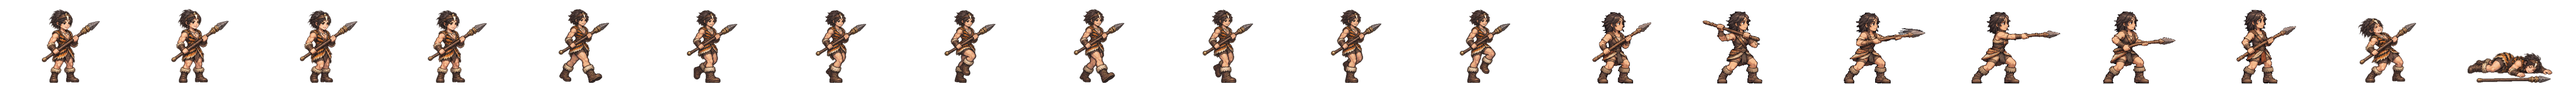
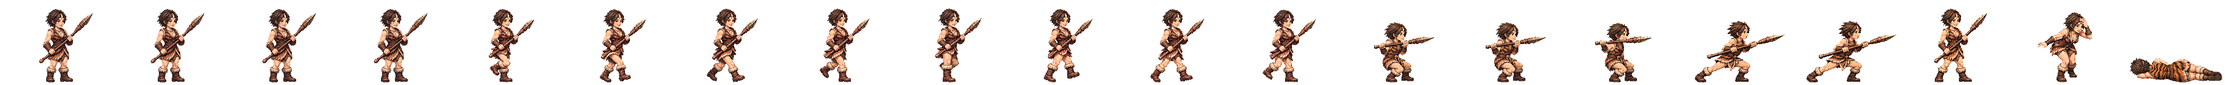
사로 범이 새 전투 띠를 게임에 (창 · 새 찌르기 · 맞음 네 칸 · 개성 동작) · 끝까지 찌른 칸은 a4 로 · 자루 곧음 6배 확인
Claude-Session: https://claude.ai/code/session_01TRiuN7s6aDfSnaHxrkctmU

Changed region(s): [[0.4688, 0.125, 1.0, 1.0], [0.2188, 0.125, 0.4375, 0.9688], [0.0, 0.125, 0.1875, 0.9688]]

diff --git a/src/realm/data/spritePx.ts b/src/realm/data/spritePx.ts
@@ -1,3 +1,3 @@
 /** public/realm/anim-px/manifest.json 의 사본 — tools/sprite-normalize.mjs 가 만든다 (손으로 고치지 말 것). 칸 [가로, 세로] · feet = 발 줄(칸 위에서 y) · bodyPx = 서 있는 몸 키 */
 import { expandManifest } from './sprite-manifest.ts'
-export const SPRITE_PX: Readonly<Record<string, { readonly cell: readonly [number, number]; readonly feet: number; readonly bodyPx: number; readonly kind: 'general' | 'soldier' | 'folk' | 'crowd'; readonly cells: number }>> = expandManifest<{ readonly cell: readonly [number, number]; readonly feet: number; readonly bodyPx: number; readonly kind: 'general' | 'soldier' | 'folk' | 'crowd'; readonly cells: number }>([{"cell":[166,128],"feet":126,"bodyPx":124,"kind":"soldier","cells":20},{"cell":[116,128],"feet":126,"bodyPx":117,"kind":"soldier","cells":20},{"cell":[127,128],"feet":126,"bodyPx":116,"kind":"soldier","cells":20},{"cell":[269,128],"feet":126,"bodyPx":126,"kind":"soldier","cells":20},{"cell":[503,128],"feet":126,"bodyPx":127,"kind":"soldier","cells":20},{"cell":[614,128],"feet":126,"bodyPx":126,"kind":"soldier","cells":20},{"cell":[200,160],"feet":156,"bodyPx":138,"kind":"general","cells":20},{"cell":[208,160],"feet":155,"bodyPx":138,"kind":"general","cells":20},{"cell":[208,160],"feet":154,"bodyPx":138,"kind":"general","cells":20},{"cell":[304,160],"feet":155,"bodyPx":135,"kind":"general","cells":20},{"cell":[184,160],"feet":156,"bodyPx":138,"kind":"general","cells":20},{"cell":[208,160],"feet":154,"bodyPx":136,"kind":"general","cells":20},{"cell":[240,160],"feet":156,"bodyPx":138,"kind":"general","cells":20},{"cell":[232,160],"feet":156,"bodyPx":138,"kind":"general","cells":20},{"cell":[208,160],"feet":156,"bodyPx":138,"kind":"general","cells":20},{"cell":[168,160],"feet":156,"bodyPx":124,"kind":"general","cells":20},{"cell":[216,160],"feet":156,"bodyPx":130,"kind":"general","cells":20},{"cell":[200,160],"feet":156,"bodyPx":116,"kind":"general","cells":20},{"cell":[192,160],"feet":156,"bodyPx":138,"kind":"general","cells":20},{"cell":[200,160],"feet":156,"bodyPx":135,"kind":"general","cells":20},{"cell":[280,160],"feet":156,"bodyPx":138,"kind":"general","cells":20},{"cell":[232,160],"feet":155,"bodyPx":138,"kind":"general","cells":20},{"cell":[232,160],"feet":156,"bodyPx":134,"kind":"general","cells":20},{"cell":[144,160],"feet":156,"bodyPx":70,"kind":"general","cells":20},{"cell":[208,160],"feet":156,"bodyPx":70,"kind":"general","cells":20},{"cell":[192,160],"feet":156,"bodyPx":70,"kind":"general","cells":20},{"cell":[240,160],"feet":155,"bodyPx":138,"kind":"general","cells":20},{"cell":[160,160],"feet":156,"bodyPx":135,"kind":"general","cells":20},{"cell":[192,160],"feet":156,"bodyPx":128,"kind":"general","cells":20},{"cell":[224,160],"feet":155,"bodyPx":138,"kind":"general","cells":20},{"cell":[232,160],"feet":156,"bodyPx":139,"kind":"general","cells":20},{"cell":[216,160],"feet":156,"bodyPx":138,"kind":"general","cells":20},{"cell":[208,160],"feet":156,"bodyPx":134,"kind":"general","cells":20},{"cell":[176,160],"feet":156,"bodyPx":130,"kind":"general","cells":20},{"cell":[248,160],"feet":156,"bodyPx":138,"kind":"general","cells":20},{"cell":[248,160],"feet":155,"bodyPx":138,"kind":"general","cells":20},{"cell":[192,160],"feet":155,"bodyPx":138,"kind":"general","cells":20},{"cell":[192,160],"feet":156,"bodyPx":124,"kind":"general","cells":20},{"cell":[208,160],"feet":154,"bodyPx":131,"kind":"general","cells":20},{"cell":[256,160],"feet":156,"bodyPx":138,"kind":"general","cells":20},{"cell":[232,160],"feet":156,"bodyPx":73,"kind":"general","cells":20},{"cell":[256,160],"feet":155,"bodyPx":138,"kind":"general","cells":20},{"cell":[264,160],"feet":156,"bodyPx":138,"kind":"general","cells":20},{"cell":[224,160],"feet":156,"bodyPx":138,"kind":"general","cells":20},{"cell":[224,160],"feet":156,"bodyPx":128,"kind":"general","cells":20},{"cell":[176,160],"feet":156,"bodyPx":129,"kind":"general","cells":20},{"cell":[208,160],"feet":154,"bodyPx":139,"kind":"general","cells":20},{"cell":[208,160],"feet":156,"bodyPx":132,"kind":"general","cells":20},{"cell":[208,160],"feet":154,"bodyPx":137,"kind":"general","cells":20},{"cell":[184,160],"feet":156,"bodyPx":122,"kind":"general","cells":20},{"cell":[176,160],"feet":156,"bodyPx":138,"kind":"general","cells":20},{"cell":[280,160],"feet":155,"bodyPx":133,"kind":"general","cells":20},{"cell":[176,160],"feet":156,"bodyPx":70,"kind":"general","cells":20},{"cell":[186,128],"feet":126,"bodyPx":127,"kind":"soldier","cells":20},{"cell":[298,128],"feet":126,"bodyPx":126,"kind":"soldier","cells":20},{"cell":[82,128],"feet":126,"bodyPx":114,"kind":"folk","cells":8},{"cell":[134,128],"feet":126,"bodyPx":119,"kind":"soldier","cells":20},{"cell":[380,128],"feet":126,"bodyPx":124,"kind":"soldier","cells":20},{"cell":[114,128],"feet":126,"bodyPx":115,"kind":"soldier","cells":20},{"cell":[122,128],"feet":126,"bodyPx":114,"kind":"soldier","cells":20},{"cell":[254,128],"feet":126,"bodyPx":128,"kind":"soldier","cells":20},{"cell":[438,128],"feet":126,"bodyPx":126,"kind":"soldier","cells":20},{"cell":[88,128],"feet":126,"bodyPx":113,"kind":"folk","cells":8},{"cell":[100,128],"feet":126,"bodyPx":115,"kind":"folk","cells":8},{"cell":[108,128],"feet":126,"bodyPx":115,"kind":"folk","cells":8},{"cell":[63,128],"feet":126,"bodyPx":113,"kind":"folk","cells":8},{"cell":[69,96],"feet":96,"bodyPx":96,"kind":"crowd","cells":1},{"cell":[54,96],"feet":96,"bodyPx":96,"kind":"crowd","cells":1},{"cell":[47,96],"feet":96,"bodyPx":96,"kind":"crowd","cells":1},{"cell":[49,96],"feet":96,"bodyPx":96,"kind":"crowd","cells":1},{"cell":[57,96],"feet":96,"bodyPx":96,"kind":"crowd","cells":1},{"cell":[55,96],"feet":96,"bodyPx":96,"kind":"crowd","cells":1},{"cell":[45,96],"feet":96,"bodyPx":96,"kind":"crowd","cells":1},{"cell":[53,96],"feet":96,"bodyPx":96,"kind":"crowd","cells":1},{"cell":[64,96],"feet":96,"bodyPx":96,"kind":"crowd","cells":1},{"cell":[184,160],"feet":156,"bodyPx":124,"kind":"general","cells":20},{"cell":[184,160],"feet":156,"bodyPx":134,"kind":"general","cells":20},{"cell":[224,160],"feet":156,"bodyPx":133,"kind":"general","cells":20},{"cell":[192,160],"feet":156,"bodyPx":135,"kind":"general","cells":20},{"cell":[184,160],"feet":156,"bodyPx":137,"kind":"general","cells":20},{"cell":[216,160],"feet":156,"bodyPx":134,"kind":"general","cells":20},{"cell":[216,160],"feet":156,"bodyPx":132,"kind":"general","cells":20},{"cell":[288,160],"feet":156,"bodyPx":138,"kind":"general","cells":20},{"cell":[192,160],"feet":156,"bodyPx":118,"kind":"general","cells":20},{"cell":[208,160],"feet":154,"bodyPx":134,"kind":"general","cells":20},{"cell":[208,160],"feet":154,"bodyPx":128,"kind":"general","cells":20},{"cell":[240,160],"feet":156,"bodyPx":128,"kind":"general","cells":20},{"cell":[184,160],"feet":156,"bodyPx":132,"kind":"general","cells":20},{"cell":[208,160],"feet":156,"bodyPx":123,"kind":"general","cells":20},{"cell":[176,160],"feet":156,"bodyPx":116,"kind":"general","cells":20},{"cell":[272,160],"feet":156,"bodyPx":138,"kind":"general","cells":20},{"cell":[176,160],"feet":156,"bodyPx":122,"kind":"general","cells":20},{"cell":[232,160],"feet":156,"bodyPx":127,"kind":"general","cells":20},{"cell":[168,160],"feet":156,"bodyPx":138,"kind":"general","cells":20},{"cell":[176,160],"feet":156,"bodyPx":137,"kind":"general","cells":20},{"cell":[184,160],"feet":156,"bodyPx":133,"kind":"general","cells":20}],[["axe",0],["bandit-chief",1],["bandit-club",2],["boat",3],["bow",4],["crossbow",5],["gen-adogan",6],["gen-alpyeong",7],["gen-ara",8],["gen-areum",8],["gen-aryeong",9],["gen-bakdal",6],["gen-baram",8],["gen-bdanbi",10],["gen-beom",11],["gen-beombal",8],["gen-beomi",12],["gen-bira",13],["gen-biryu",14],["gen-budeul",8],["gen-byeol",8],["gen-daemusin",15],["gen-daeso",16],["gen-dallae2",10],["gen-dalli",10],["gen-damul",17],["gen-danbi",14],["gen-dangung",18],["gen-darae",19],["gen-dokmudeom",7],["gen-duman",20],["gen-eomni",21],["gen-eureum",22],["gen-g-bow",23],["gen-g-spear",24],["gen-g-sword",25],["gen-gaennae",6],["gen-gamsil",26],["gen-gaon",27],["gen-geota",14],["gen-geumbawi",10],["gen-geumha",28],["gen-goeun",14],["gen-gom",29],["gen-gomok",14],["gen-gureum",26],["gen-guryema",18],["gen-gwaeyu",13],["gen-haebi",8],["gen-haedal",6],["gen-haesol",30],["gen-halla",7],["gen-heo",8],["gen-hneoul",10],["gen-hogong",31],["gen-hojin",14],["gen-horselord",32],["gen-hwalmi",33],["gen-hyeokgeose",18],["gen-hyeopbo",6],["gen-irang",8],["gen-jibaekho",34],["gen-jinha",35],["gen-jita",36],["gen-jumong",37],["gen-keundol",7],["gen-maehwa",38],["gen-maenun",18],["gen-malgalgi",39],["gen-mari",12],["gen-maro",34],["gen-maryeo",14],["gen-mdallae",30],["gen-mir",6],["gen-mount",40],["gen-mulbeom",41],["gen-mulsae",31],["gen-musoe",31],["gen-noeul",8],["gen-nuri",42],["gen-ocheongan",43],["gen-odi",8],["gen-odogan",6],["gen-ogan",18],["gen-oi",44],["gen-olddaeso",22],["gen-onjo",45],["gen-pidogan",14],["gen-sagong",46],["gen-sdallae",6],["gen-sincheongan",31],["gen-singwigan",31],["gen-sinneoul",8],["gen-sobeol",21],["gen-soebi",6],["gen-soebo",47],["gen-soenun",34],["gen-sogeumbi",48],["gen-songbi",43],["gen-songyang",49],["gen-sori",50],["gen-soseono",51],["gen-suro",18],["gen-tahae",6],["gen-tneoul",8],["gen-w-bow",23],["gen-w-spear",52],["gen-waechief",14],["gen-wan",31],["gen-yeodogan",14],["gen-yucheongan",14],["gen-yusugan",34],["horse",53],["marine",54],["migrant",55],["militia",56],["pike",57],["pirate-captain",58],["pirate-sword",59],["shield",60],["spear",61],["villager-builder",62],["villager-farmer",63],["villager-porter",64],["villager-woman",65],["crowd-b1",66],["crowd-b2",67],["crowd-b3",68],["crowd-b4",69],["crowd-b5",70],["crowd-b6",71],["crowd-f1",66],["crowd-f2",71],["crowd-f3",72],["crowd-f4",73],["crowd-f5",66],["crowd-f6",74],["gen-dalbit",14],["gen-base-g-07-drunk-warrior",18],["gen-base-g-40-anya-adan",14],["gen-base-w-13-young-archer",8],["gen-base-g-03-sea-trader",12],["gen-base-w-10-pirate-captain",46],["gen-base-w-64-miri-dallae",46],["gen-base-g-41-goja-bau",12],["gen-base-g-42-dokro-garam",42],["gen-base-g-09-farmer-conscript",31],["gen-base-w-02-goguryeo-lady",31],["gen-base-w-17-mahan-pearl-diver",8],["gen-base-g-17-saro-isageum",47],["gen-base-g-18-daegaya-king",75],["gen-base-g-35-dabeol-dalgu",14],["gen-base-g-19-sabeol-veteran",31],["gen-base-w-23-usisan-whale-queen",8],["gen-base-g-36-gammun-gamdol",43],["gen-base-g-20-samul-sea-lord",39],["gen-base-g-37-eumjeup-jeup",10],["gen-base-g-38-chopal-palmae",18],["gen-base-w-75-daegaya-soemoe",18],["gen-base-g-45-dabeol-deulgae",10],["gen-base-g-04-jinhan-giant",14],["gen-base-g-08-veteran",14],["gen-base-w-18-jinhan-salt-widow",8],["gen-base-w-12-court-dancer",76],["gen-base-w-83-gyeonji-beodeul",77],["gen-base-w-05-baekje-queen",78],["gen-base-w-21-baekje-court-dancer",10],["gen-base-g-01-master-smith",79],["gen-base-g-93-jomun-solgae",33],["gen-base-g-57-bihwa-neup",12],["gen-base-w-72-eumjeup-beol",8],["gen-base-w-102-garak-dana",46],["gen-base-g-68-baekje-onnuri",14],["gen-base-w-27-mokji-jinha",6],["gen-base-g-22-ungcheon-gomnae",6],["gen-base-g-23-sangdang-soedal",14],["gen-base-g-24-wansan-onsan",6],["gen-base-g-25-balla-keunmoe",31],["gen-base-g-61-heomcheuk-bawi",31],["gen-base-g-88-wander-soeul",43],["gen-base-w-14-feast-spy",6],["gen-base-g-12-silla-youth",80],["gen-base-w-08-mahan-warrior",8],["gen-base-g-62-beonye-hanul",12],["gen-base-g-63-heomcheuk-beogeum",14],["gen-base-g-84-wander-seoneul",14],["gen-base-w-50-siljik-mulga",31],["gen-base-g-46-uga-nureongso",31],["gen-base-w-80-usan-gangchi",46],["gen-base-g-47-guga-sanyanggae",31],["gen-base-w-76-gampyeong-baetsagong",8],["gen-base-g-05-mahan-chieftain",81],["gen-base-g-58-usan-uhae",14],["gen-base-g-27-maek-maekdol",14],["gen-base-w-53-hwanna-gabi",46],["gen-base-w-29-golpo-janmul",34],["gen-base-g-53-baekje-haeru",6],["gen-base-w-71-yeonna-neoul",8],["gen-base-w-79-yangmaek-solmae",8],["gen-base-w-34-chopal-deulme",8],["gen-base-g-44-maga-malgup",82],["gen-base-w-31-dabeol-dalbit",46],["gen-base-g-51-biryuna-mulgyeol",43],["gen-base-g-48-gwanna-musoe",14],["gen-base-g-32-uga-sodu",13],["gen-base-g-49-goguryeo-sona",83],["gen-base-g-30-gwanna-soemoe",43],["gen-base-g-52-tamna-oreum",10],["gen-base-g-29-yeonna-myeongsol",37],["gen-base-w-56-dongokjeo-sogeum",84],["gen-base-g-54-mokji-mahan",13],["gen-base-g-33-jeoga-metdol",18],["gen-base-w-36-baekje-maena",8],["gen-base-w-38-sangdang-bulmae",6],["gen-base-w-39-gosaburi-galmae",8],["gen-base-w-40-mujin-munui",47],["gen-base-w-41-hwanna-beodeul",85],["gen-base-w-43-uga-nuri",39],["gen-base-w-45-tamna-oreumbi",10],["gen-base-g-60-golbeol-golgae",10],["gen-base-g-61-apdok-ap",31],["gen-base-g-62-gammun-gamnamu",6],["gen-base-g-63-chopal-yeoul",34],["gen-base-g-64-michuhol-sogeumkkun",12],["gen-base-g-65-sangdang-soemangchi",43],["gen-base-g-66-geonma-malbalgup",86],["gen-base-g-67-gosaburi-buri",87],["gen-base-g-68-mujin-bitgoeul",10],["gen-base-g-69-goryong-yong",43],["gen-base-g-70-siljik-pado",12],["gen-base-w-81-byeokjin-byeolbit",8],["gen-base-w-46-geonma-maru",8],["gen-base-w-48-mujin-mudeung",8],["gen-base-g-26-gampyeong-gaetbeol",13],["gen-base-g-60-eupcha-hangyeol",88],["gen-base-g-15-shaman-man",31],["gen-base-g-85-wander-ure",34],["gen-base-g-43-hwanna-amnok",14],["gen-base-g-50-bullae-gwaha",78],["gen-base-g-55-saro-bakdal",14],["gen-base-g-56-haseulla-gwahama",6],["gen-base-w-06-buyeo-huntress",48],["gen-base-w-22-dongye-tiger-huntress",8],["gen-base-w-25-bihwa-priestess",31],["gen-base-w-24-apdok-queen",10],["gen-base-w-61-iseo-sinae",14],["gen-base-w-26-iseo-tomboy-general",8],["gen-base-g-59-yangmaek-maekson",89],["gen-aw1-haebi",43],["gen-aw1-soseono",90],["gen-aw1-gamsil",10],["gen-aw1-mir",50],["gen-aw1-dangung",6],["gen-aw1-ara",43],["gen-aw1-jumong",91],["gen-aw1-onjo",92],["gen-aw1-base-w-83-gyeonji-beodeul",18],["gen-aw1-heo",42],["gen-aw1-base-g-38-chopal-palmae",6],["gen-aw1-base-w-25-bihwa-priestess",76],["gen-aw1-sori",93],["gen-aw1-gomok",6],["gen-aw1-irang",18],["gen-aw1-budeul",93],["gen-aw1-gom",12],["gen-aw1-sdallae",6],["gen-aw1-base-w-13-young-archer",6],["gen-aw1-base-w-36-baekje-maena",94],["gen-aw1-base-g-09-farmer-conscript",42],["gen-aw1-base-w-02-goguryeo-lady",95],["gen-aw1-haedal",10],["gen-aw1-hogong",6],["gen-aw1-maehwa",50],["gen-aw1-base-w-06-buyeo-huntress",13],["gen-aw1-base-w-08-mahan-warrior",43],["gen-aw1-base-w-29-golpo-janmul",43],["gen-aw1-base-w-31-dabeol-dalbit",18],["gen-aw1-base-w-38-sangdang-bulmae",93],["gen-aw1-bira",31],["gen-aw1-base-w-53-hwanna-gabi",93],["gen-aw1-base-w-56-dongokjeo-sogeum",50],["gen-aw1-base-w-72-eumjeup-beol",18],["gen-aw1-bdanbi",93],["gen-aw1-beom",10],["gen-aw1-beombal",10],["gen-aw1-byeol",18],["gen-aw1-dalli",50],["gen-aw1-malgalgi",34],["gen-aw1-sincheongan",31]])
+export const SPRITE_PX: Readonly<Record<string, { readonly cell: readonly [number, number]; readonly feet: number; readonly bodyPx: number; readonly kind: 'general' | 'soldier' | 'folk' | 'crowd'; readonly cells: number }>> = expandManifest<{ readonly cell: readonly [number, number]; readonly feet: number; readonly bodyPx: number; readonly kind: 'general' | 'soldier' | 'folk' | 'crowd'; readonly cells: number }>([{"cell":[166,128],"feet":126,"bodyPx":124,"kind":"soldier","cells":20},{"cell":[116,128],"feet":126,"bodyPx":117,"kind":"soldier","cells":20},{"cell":[127,128],"feet":126,"bodyPx":116,"kind":"soldier","cells":20},{"cell":[269,128],"feet":126,"bodyPx":126,"kind":"soldier","cells":20},{"cell":[503,128],"feet":126,"bodyPx":127,"kind":"soldier","cells":20},{"cell":[614,128],"feet":126,"bodyPx":126,"kind":"soldier","cells":20},{"cell":[200,160],"feet":156,"bodyPx":138,"kind":"general","cells":20},{"cell":[208,160],"feet":155,"bodyPx":138,"kind":"general","cells":20},{"cell":[208,160],"feet":154,"bodyPx":138,"kind":"general","cells":20},{"cell":[304,160],"feet":155,"bodyPx":135,"kind":"general","cells":20},{"cell":[184,160],"feet":156,"bodyPx":138,"kind":"general","cells":20},{"cell":[208,160],"feet":154,"bodyPx":136,"kind":"general","cells":20},{"cell":[232,160],"feet":156,"bodyPx":138,"kind":"general","cells":20},{"cell":[208,160],"feet":156,"bodyPx":138,"kind":"general","cells":20},{"cell":[168,160],"feet":156,"bodyPx":124,"kind":"general","cells":20},{"cell":[216,160],"feet":156,"bodyPx":130,"kind":"general","cells":20},{"cell":[200,160],"feet":156,"bodyPx":116,"kind":"general","cells":20},{"cell":[192,160],"feet":156,"bodyPx":138,"kind":"general","cells":20},{"cell":[200,160],"feet":156,"bodyPx":135,"kind":"general","cells":20},{"cell":[280,160],"feet":156,"bodyPx":138,"kind":"general","cells":20},{"cell":[232,160],"feet":155,"bodyPx":138,"kind":"general","cells":20},{"cell":[232,160],"feet":156,"bodyPx":134,"kind":"general","cells":20},{"cell":[144,160],"feet":156,"bodyPx":70,"kind":"general","cells":20},{"cell":[208,160],"feet":156,"bodyPx":70,"kind":"general","cells":20},{"cell":[192,160],"feet":156,"bodyPx":70,"kind":"general","cells":20},{"cell":[240,160],"feet":155,"bodyPx":138,"kind":"general","cells":20},{"cell":[160,160],"feet":156,"bodyPx":135,"kind":"general","cells":20},{"cell":[192,160],"feet":156,"bodyPx":128,"kind":"general","cells":20},{"cell":[224,160],"feet":155,"bodyPx":138,"kind":"general","cells":20},{"cell":[232,160],"feet":156,"bodyPx":139,"kind":"general","cells":20},{"cell":[216,160],"feet":156,"bodyPx":138,"kind":"general","cells":20},{"cell":[208,160],"feet":156,"bodyPx":134,"kind":"general","cells":20},{"cell":[176,160],"feet":156,"bodyPx":130,"kind":"general","cells":20},{"cell":[248,160],"feet":156,"bodyPx":138,"kind":"general","cells":20},{"cell":[248,160],"feet":155,"bodyPx":138,"kind":"general","cells":20},{"cell":[192,160],"feet":155,"bodyPx":138,"kind":"general","cells":20},{"cell":[192,160],"feet":156,"bodyPx":124,"kind":"general","cells":20},{"cell":[208,160],"feet":154,"bodyPx":131,"kind":"general","cells":20},{"cell":[256,160],"feet":156,"bodyPx":138,"kind":"general","cells":20},{"cell":[240,160],"feet":156,"bodyPx":138,"kind":"general","cells":20},{"cell":[232,160],"feet":156,"bodyPx":73,"kind":"general","cells":20},{"cell":[256,160],"feet":155,"bodyPx":138,"kind":"general","cells":20},{"cell":[264,160],"feet":156,"bodyPx":138,"kind":"general","cells":20},{"cell":[224,160],"feet":156,"bodyPx":138,"kind":"general","cells":20},{"cell":[224,160],"feet":156,"bodyPx":128,"kind":"general","cells":20},{"cell":[176,160],"feet":156,"bodyPx":129,"kind":"general","cells":20},{"cell":[208,160],"feet":154,"bodyPx":139,"kind":"general","cells":20},{"cell":[208,160],"feet":156,"bodyPx":132,"kind":"general","cells":20},{"cell":[208,160],"feet":154,"bodyPx":137,"kind":"general","cells":20},{"cell":[184,160],"feet":156,"bodyPx":122,"kind":"general","cells":20},{"cell":[176,160],"feet":156,"bodyPx":138,"kind":"general","cells":20},{"cell":[280,160],"feet":155,"bodyPx":133,"kind":"general","cells":20},{"cell":[176,160],"feet":156,"bodyPx":70,"kind":"general","cells":20},{"cell":[186,128],"feet":126,"bodyPx":127,"kind":"soldier","cells":20},{"cell":[298,128],"feet":126,"bodyPx":126,"kind":"soldier","cells":20},{"cell":[82,128],"feet":126,"bodyPx":114,"kind":"folk","cells":8},{"cell":[134,128],"feet":126,"bodyPx":119,"kind":"soldier","cells":20},{"cell":[380,128],"feet":126,"bodyPx":124,"kind":"soldier","cells":20},{"cell":[114,128],"feet":126,"bodyPx":115,"kind":"soldier","cells":20},{"cell":[122,128],"feet":126,"bodyPx":114,"kind":"soldier","cells":20},{"cell":[254,128],"feet":126,"bodyPx":128,"kind":"soldier","cells":20},{"cell":[438,128],"feet":126,"bodyPx":126,"kind":"soldier","cells":20},{"cell":[88,128],"feet":126,"bodyPx":113,"kind":"folk","cells":8},{"cell":[100,128],"feet":126,"bodyPx":115,"kind":"folk","cells":8},{"cell":[108,128],"feet":126,"bodyPx":115,"kind":"folk","cells":8},{"cell":[63,128],"feet":126,"bodyPx":113,"kind":"folk","cells":8},{"cell":[69,96],"feet":96,"bodyPx":96,"kind":"crowd","cells":1},{"cell":[54,96],"feet":96,"bodyPx":96,"kind":"crowd","cells":1},{"cell":[47,96],"feet":96,"bodyPx":96,"kind":"crowd","cells":1},{"cell":[49,96],"feet":96,"bodyPx":96,"kind":"crowd","cells":1},{"cell":[57,96],"feet":96,"bodyPx":96,"kind":"crowd","cells":1},{"cell":[55,96],"feet":96,"bodyPx":96,"kind":"crowd","cells":1},{"cell":[45,96],"feet":96,"bodyPx":96,"kind":"crowd","cells":1},{"cell":[53,96],"feet":96,"bodyPx":96,"kind":"crowd","cells":1},{"cell":[64,96],"feet":96,"bodyPx":96,"kind":"crowd","cells":1},{"cell":[184,160],"feet":156,"bodyPx":124,"kind":"general","cells":20},{"cell":[184,160],"feet":156,"bodyPx":134,"kind":"general","cells":20},{"cell":[224,160],"feet":156,"bodyPx":133,"kind":"general","cells":20},{"cell":[192,160],"feet":156,"bodyPx":135,"kind":"general","cells":20},{"cell":[184,160],"feet":156,"bodyPx":137,"kind":"general","cells":20},{"cell":[216,160],"feet":156,"bodyPx":134,"kind":"general","cells":20},{"cell":[216,160],"feet":156,"bodyPx":132,"kind":"general","cells":20},{"cell":[288,160],"feet":156,"bodyPx":138,"kind":"general","cells":20},{"cell":[192,160],"feet":156,"bodyPx":118,"kind":"general","cells":20},{"cell":[208,160],"feet":154,"bodyPx":134,"kind":"general","cells":20},{"cell":[208,160],"feet":154,"bodyPx":128,"kind":"general","cells":20},{"cell":[240,160],"feet":156,"bodyPx":128,"kind":"general","cells":20},{"cell":[184,160],"feet":156,"bodyPx":132,"kind":"general","cells":20},{"cell":[208,160],"feet":156,"bodyPx":123,"kind":"general","cells":20},{"cell":[176,160],"feet":156,"bodyPx":116,"kind":"general","cells":20},{"cell":[272,160],"feet":156,"bodyPx":138,"kind":"general","cells":20},{"cell":[176,160],"feet":156,"bodyPx":122,"kind":"general","cells":20},{"cell":[232,160],"feet":156,"bodyPx":127,"kind":"general","cells":20},{"cell":[168,160],"feet":156,"bodyPx":138,"kind":"general","cells":20},{"cell":[176,160],"feet":156,"bodyPx":137,"kind":"general","cells":20},{"cell":[184,160],"feet":156,"bodyPx":133,"kind":"general","cells":20}],[["axe",0],["bandit-chief",1],["bandit-club",2],["boat",3],["bow",4],["crossbow",5],["gen-adogan",6],["gen-alpyeong",7],["gen-ara",8],["gen-areum",8],["gen-aryeong",9],["gen-bakdal",6],["gen-baram",8],["gen-bdanbi",10],["gen-beom",11],["gen-beombal",8],["gen-beomi",8],["gen-bira",12],["gen-biryu",13],["gen-budeul",8],["gen-byeol",8],["gen-daemusin",14],["gen-daeso",15],["gen-dallae2",10],["gen-dalli",10],["gen-damul",16],["gen-danbi",13],["gen-dangung",17],["gen-darae",18],["gen-dokmudeom",7],["gen-duman",19],["gen-eomni",20],["gen-eureum",21],["gen-g-bow",22],["gen-g-spear",23],["gen-g-sword",24],["gen-gaennae",6],["gen-gamsil",25],["gen-gaon",26],["gen-geota",13],["gen-geumbawi",10],["gen-geumha",27],["gen-goeun",13],["gen-gom",28],["gen-gomok",13],["gen-gureum",25],["gen-guryema",17],["gen-gwaeyu",12],["gen-haebi",8],["gen-haedal",6],["gen-haesol",29],["gen-halla",7],["gen-heo",8],["gen-hneoul",10],["gen-hogong",30],["gen-hojin",13],["gen-horselord",31],["gen-hwalmi",32],["gen-hyeokgeose",17],["gen-hyeopbo",6],["gen-irang",8],["gen-jibaekho",33],["gen-jinha",34],["gen-jita",35],["gen-jumong",36],["gen-keundol",7],["gen-maehwa",37],["gen-maenun",17],["gen-malgalgi",38],["gen-mari",39],["gen-maro",33],["gen-maryeo",13],["gen-mdallae",29],["gen-mir",6],["gen-mount",40],["gen-mulbeom",41],["gen-mulsae",30],["gen-musoe",30],["gen-noeul",8],["gen-nuri",42],["gen-ocheongan",43],["gen-odi",8],["gen-odogan",6],["gen-ogan",17],["gen-oi",44],["gen-olddaeso",21],["gen-onjo",45],["gen-pidogan",13],["gen-sagong",46],["gen-sdallae",6],["gen-sincheongan",30],["gen-singwigan",30],["gen-sinneoul",8],["gen-sobeol",20],["gen-soebi",6],["gen-soebo",47],["gen-soenun",33],["gen-sogeumbi",48],["gen-songbi",43],["gen-songyang",49],["gen-sori",50],["gen-soseono",51],["gen-suro",17],["gen-tahae",6],["gen-tneoul",8],["gen-w-bow",22],["gen-w-spear",52],["gen-waechief",13],["gen-wan",30],["gen-yeodogan",13],["gen-yucheongan",13],["gen-yusugan",33],["horse",53],["marine",54],["migrant",55],["militia",56],["pike",57],["pirate-captain",58],["pirate-sword",59],["shield",60],["spear",61],["villager-builder",62],["villager-farmer",63],["villager-porter",64],["villager-woman",65],["crowd-b1",66],["crowd-b2",67],["crowd-b3",68],["crowd-b4",69],["crowd-b5",70],["crowd-b6",71],["crowd-f1",66],["crowd-f2",71],["crowd-f3",72],["crowd-f4",73],["crowd-f5",66],["crowd-f6",74],["gen-dalbit",13],["gen-base-g-07-drunk-warrior",17],["gen-base-g-40-anya-adan",13],["gen-base-w-13-young-archer",8],["gen-base-g-03-sea-trader",39],["gen-base-w-10-pirate-captain",46],["gen-base-w-64-miri-dallae",46],["gen-base-g-41-goja-bau",39],["gen-base-g-42-dokro-garam",42],["gen-base-g-09-farmer-conscript",30],["gen-base-w-02-goguryeo-lady",30],["gen-base-w-17-mahan-pearl-diver",8],["gen-base-g-17-saro-isageum",47],["gen-base-g-18-daegaya-king",75],["gen-base-g-35-dabeol-dalgu",13],["gen-base-g-19-sabeol-veteran",30],["gen-base-w-23-usisan-whale-queen",8],["gen-base-g-36-gammun-gamdol",43],["gen-base-g-20-samul-sea-lord",38],["gen-base-g-37-eumjeup-jeup",10],["gen-base-g-38-chopal-palmae",17],["gen-base-w-75-daegaya-soemoe",17],["gen-base-g-45-dabeol-deulgae",10],["gen-base-g-04-jinhan-giant",13],["gen-base-g-08-veteran",13],["gen-base-w-18-jinhan-salt-widow",8],["gen-base-w-12-court-dancer",76],["gen-base-w-83-gyeonji-beodeul",77],["gen-base-w-05-baekje-queen",78],["gen-base-w-21-baekje-court-dancer",10],["gen-base-g-01-master-smith",79],["gen-base-g-93-jomun-solgae",32],["gen-base-g-57-bihwa-neup",39],["gen-base-w-72-eumjeup-beol",8],["gen-base-w-102-garak-dana",46],["gen-base-g-68-baekje-onnuri",13],["gen-base-w-27-mokji-jinha",6],["gen-base-g-22-ungcheon-gomnae",6],["gen-base-g-23-sangdang-soedal",13],["gen-base-g-24-wansan-onsan",6],["gen-base-g-25-balla-keunmoe",30],["gen-base-g-61-heomcheuk-bawi",30],["gen-base-g-88-wander-soeul",43],["gen-base-w-14-feast-spy",6],["gen-base-g-12-silla-youth",80],["gen-base-w-08-mahan-warrior",8],["gen-base-g-62-beonye-hanul",39],["gen-base-g-63-heomcheuk-beogeum",13],["gen-base-g-84-wander-seoneul",13],["gen-base-w-50-siljik-mulga",30],["gen-base-g-46-uga-nureongso",30],["gen-base-w-80-usan-gangchi",46],["gen-base-g-47-guga-sanyanggae",30],["gen-base-w-76-gampyeong-baetsagong",8],["gen-base-g-05-mahan-chieftain",81],["gen-base-g-58-usan-uhae",13],["gen-base-g-27-maek-maekdol",13],["gen-base-w-53-hwanna-gabi",46],["gen-base-w-29-golpo-janmul",33],["gen-base-g-53-baekje-haeru",6],["gen-base-w-71-yeonna-neoul",8],["gen-base-w-79-yangmaek-solmae",8],["gen-base-w-34-chopal-deulme",8],["gen-base-g-44-maga-malgup",82],["gen-base-w-31-dabeol-dalbit",46],["gen-base-g-51-biryuna-mulgyeol",43],["gen-base-g-48-gwanna-musoe",13],["gen-base-g-32-uga-sodu",12],["gen-base-g-49-goguryeo-sona",83],["gen-base-g-30-gwanna-soemoe",43],["gen-base-g-52-tamna-oreum",10],["gen-base-g-29-yeonna-myeongsol",36],["gen-base-w-56-dongokjeo-sogeum",84],["gen-base-g-54-mokji-mahan",12],["gen-base-g-33-jeoga-metdol",17],["gen-base-w-36-baekje-maena",8],["gen-base-w-38-sangdang-bulmae",6],["gen-base-w-39-gosaburi-galmae",8],["gen-base-w-40-mujin-munui",47],["gen-base-w-41-hwanna-beodeul",85],["gen-base-w-43-uga-nuri",38],["gen-base-w-45-tamna-oreumbi",10],["gen-base-g-60-golbeol-golgae",10],["gen-base-g-61-apdok-ap",30],["gen-base-g-62-gammun-gamnamu",6],["gen-base-g-63-chopal-yeoul",33],["gen-base-g-64-michuhol-sogeumkkun",39],["gen-base-g-65-sangdang-soemangchi",43],["gen-base-g-66-geonma-malbalgup",86],["gen-base-g-67-gosaburi-buri",87],["gen-base-g-68-mujin-bitgoeul",10],["gen-base-g-69-goryong-yong",43],["gen-base-g-70-siljik-pado",39],["gen-base-w-81-byeokjin-byeolbit",8],["gen-base-w-46-geonma-maru",8],["gen-base-w-48-mujin-mudeung",8],["gen-base-g-26-gampyeong-gaetbeol",12],["gen-base-g-60-eupcha-hangyeol",88],["gen-base-g-15-shaman-man",30],["gen-base-g-85-wander-ure",33],["gen-base-g-43-hwanna-amnok",13],["gen-base-g-50-bullae-gwaha",78],["gen-base-g-55-saro-bakdal",13],["gen-base-g-56-haseulla-gwahama",6],["gen-base-w-06-buyeo-huntress",48],["gen-base-w-22-dongye-tiger-huntress",8],["gen-base-w-25-bihwa-priestess",30],["gen-base-w-24-apdok-queen",10],["gen-base-w-61-iseo-sinae",13],["gen-base-w-26-iseo-tomboy-general",8],["gen-base-g-59-yangmaek-maekson",89],["gen-aw1-haebi",43],["gen-aw1-soseono",90],["gen-aw1-gamsil",10],["gen-aw1-mir",50],["gen-aw1-dangung",6],["gen-aw1-ara",43],["gen-aw1-jumong",91],["gen-aw1-onjo",92],["gen-aw1-base-w-83-gyeonji-beodeul",17],["gen-aw1-heo",42],["gen-aw1-base-g-38-chopal-palmae",6],["gen-aw1-base-w-25-bihwa-priestess",76],["gen-aw1-sori",93],["gen-aw1-gomok",6],["gen-aw1-irang",17],["gen-aw1-budeul",93],["gen-aw1-gom",39],["gen-aw1-sdallae",6],["gen-aw1-base-w-13-young-archer",6],["gen-aw1-base-w-36-baekje-maena",94],["gen-aw1-base-g-09-farmer-conscript",42],["gen-aw1-base-w-02-goguryeo-lady",95],["gen-aw1-haedal",10],["gen-aw1-hogong",6],["gen-aw1-maehwa",50],["gen-aw1-base-w-06-buyeo-huntress",12],["gen-aw1-base-w-08-mahan-warrior",43],["gen-aw1-base-w-29-golpo-janmul",43],["gen-aw1-base-w-31-dabeol-dalbit",17],["gen-aw1-base-w-38-sangdang-bulmae",93],["gen-aw1-bira",30],["gen-aw1-base-w-53-hwanna-gabi",93],["gen-aw1-base-w-56-dongokjeo-sogeum",50],["gen-aw1-base-w-72-eumjeup-beol",17],["gen-aw1-bdanbi",93],["gen-aw1-beom",10],["gen-aw1-beombal",10],["gen-aw1-byeol",17],["gen-aw1-dalli",50],["gen-aw1-malgalgi",33],["gen-aw1-sincheongan",30]])

diff --git a/src/duel/view.ts b/src/duel/view.ts
@@ -100,7 +100,7 @@ const crowdFront = [1, 2, 3, 4, 5, 6].map((i) => img(`realm/duel/crowd/b${i}.png
 const crowdReady = (set: HTMLImageElement[]): boolean => set.every((im) => im.complete && im.naturalWidth > 0)
 const pxMode = cfg.px !== false && params.get('px') !== '0'
 /** 겨루기 전용 옛 띠(duel/sprites) 대신 열전과 같은 도트 띠(anim-px)를 쓰는 장수 — 두 판에서 같은 모습 · 서기 계획·쓰러지는 칸도 같다 (11-23 범 · 매화 · 달빛 · 11-24 해비 · 아룸) */
-const PX_DUEL: ReadonlySet<string> = new Set(['beom', 'maehwa', 'base-w-31-dabeol-dalbit', 'haebi', 'areum', 'base-w-13-young-archer', 'base-w-10-pirate-captain', 'base-w-17-mahan-pearl-diver', 'base-w-06-buyeo-huntress', 'base-w-64-miri-dallae', 'ara', 'base-w-22-dongye-tiger-huntress', 'noeul', 'sagong', 'sinneoul', 'heo', 'base-w-08-mahan-warrior', 'base-w-23-usisan-whale-queen', 'base-w-26-iseo-tomboy-general', 'base-w-72-eumjeup-beol', 'tneoul', 'odi', 'base-w-76-gampyeong-baetsagong', 'base-w-34-chopal-deulme', 'base-w-102-garak-dana', 'base-w-36-baekje-maena', 'base-w-56-dongokjeo-sogeum', 'budeul', 'base-w-53-hwanna-gabi', 'base-w-18-jinhan-salt-widow', 'beombal', 'irang', 'sogeumbi', 'baram', 'byeol', 'base-w-71-yeonna-neoul', 'base-w-39-gosaburi-galmae', 'base-w-41-hwanna-beodeul', 'base-w-79-yangmaek-solmae', 'base-w-46-geonma-maru', 'base-w-48-mujin-mudeung', 'base-w-80-usan-gangchi', 'base-w-81-byeokjin-byeolbit'])
+const PX_DUEL: ReadonlySet<string> = new Set(['beom', 'maehwa', 'base-w-31-dabeol-dalbit', 'haebi', 'areum', 'base-w-13-young-archer', 'base-w-10-pirate-captain', 'base-w-17-mahan-pearl-diver', 'base-w-06-buyeo-huntress', 'base-w-64-miri-dallae', 'ara', 'base-w-22-dongye-tiger-huntress', 'noeul', 'sagong', 'sinneoul', 'heo', 'base-w-08-mahan-warrior', 'base-w-23-usisan-whale-queen', 'base-w-26-iseo-tomboy-general', 'base-w-72-eumjeup-beol', 'tneoul', 'odi', 'base-w-76-gampyeong-baetsagong', 'base-w-34-chopal-deulme', 'base-w-102-garak-dana', 'base-w-36-baekje-maena', 'base-w-56-dongokjeo-sogeum', 'budeul', 'base-w-53-hwanna-gabi', 'base-w-18-jinhan-salt-widow', 'beombal', 'irang', 'sogeumbi', 'baram', 'byeol', 'base-w-71-yeonna-neoul', 'base-w-39-gosaburi-galmae', 'base-w-41-hwanna-beodeul', 'base-w-79-yangmaek-solmae', 'base-w-46-geonma-maru', 'base-w-48-mujin-mudeung', 'base-w-80-usan-gangchi', 'base-w-81-byeokjin-byeolbit', 'beomi'])
 /** 띠 그림 — 기본은 anim-px(도트 규격) 먼저, 없으면 옛 띠로 (img 의 onerror 가 갈아 끼운다) */
 const strip = (s: string): HTMLImageElement => pxMode
   ? DUEL_ATLASES[s] !== undefined && !PX_DUEL.has(s) ? img(`realm/duel/sprites/gen-${s}.png`, `realm/anim-px/gen-${s}.png`)

diff --git a/src/tune/params.ts b/src/tune/params.ts
@@ -1462,6 +1462,7 @@ export const HAEBI_IDLE = {
     'base-w-48-mujin-mudeung': { cells: 38, base: [0, 1], hold: 2.4, fall: [18, 20, 21, 19], quirk: [22, 23, 24, 25], quirkTimes: [.3, .32, .4, .28], attack: { cells: [26, 27, 28, 29, 30, 31, 32, 33], times: [.09, .08, .11, .12, .12, .08, .08, .12], hit: 3 }, hurt: [34, 35], rise: [36, 37], xGeom: { h: 224, root: 92, foot: 216 } },
     'base-w-80-usan-gangchi': { cells: 38, base: [0, 1], hold: 2.4, fall: [18, 20, 21, 19], quirk: [22, 23, 24, 25], quirkTimes: [.3, .32, .4, .28], attack: { cells: [26, 27, 28, 29, 30, 31, 32, 33], times: [.09, .08, .11, .05, .15, .07, .08, .12], hit: 4 }, hurt: [34, 35], rise: [36, 37], xGeom: { h: 224, root: 92, foot: 216 } },
     'base-w-81-byeokjin-byeolbit': { cells: 38, base: [0, 1], hold: 2.4, fall: [18, 20, 21, 19], quirk: [22, 23, 24, 25], quirkTimes: [.3, .32, .4, .28], attack: { cells: [26, 27, 28, 29, 30, 31, 32, 33], times: [.09, .08, .11, .12, .12, .08, .08, .12], hit: 3 }, hurt: [34, 35], rise: [36, 37], xGeom: { h: 224, root: 92, foot: 216 } },
+    beomi: { cells: 38, base: [0, 1], hold: 2.4, fall: [18, 20, 21, 19], quirk: [22, 23, 24, 25], quirkTimes: [.3, .32, .4, .28], attack: { cells: [26, 27, 28, 29, 30, 31, 32, 33], times: [.09, .08, .11, .12, .12, .08, .08, .12], hit: 3 }, hurt: [34, 35], rise: [36, 37], xGeom: { h: 224, root: 92, foot: 216 } },
   },
 } as const
 export const HAEBI_ANIM = {

diff --git a/tools/sprite-kit/anim-harness.py b/tools/sprite-kit/anim-harness.py
@@ -82,6 +82,11 @@ HEROES = {
     'yneoul': dict(hit=True, strip='gen-base-w-71-yeonna-neoul', atk='thrust', src='thrust2', actw=264, refoot=True, atk8=True, act=True, legacy=(('a', 2), ('a', 3), ('b', 3), ('b', 4))),   # 연나 너울(창 · 가슴 M) · 여섯째 묶음
     'gangchi': dict(hit=True, strip='gen-base-w-80-usan-gangchi', atk='thrust', src='thrust2', actw=264, refoot=True, atk8=True, act=True, legacy=(('a', 2), ('a', 3), ('b', 3), ('b', 4))),   # 우산 강치(미늘창 · 가슴 M) · 여섯째 묶음
     'byeolbit': dict(hit=True, strip='gen-base-w-81-byeokjin-byeolbit', atk='thrust', src='thrust2', actw=264, refoot=True, atk8=True, act=True, legacy=(('a', 2), ('a', 3), ('b', 3), ('b', 4)), cells8=[('a', 1), ('a', 2), ('a', 3), ('a', 4), ('a', 4), ('a', 4), ('b', 3), ('b', 4)]),   # 벽진 별빛(창 · 비늘 갑옷 · 가슴 M) · 여섯째 묶음
+    'beomi': dict(hit=True, strip='gen-beomi', atk='thrust', src='thrust2', actw=264, refoot=True, atk8=True, act=True, legacy=(('a', 2), ('a', 3), ('b', 3), ('b', 4)), cells8=[('a', 1), ('a', 2), ('a', 3), ('a', 4), ('a', 4), ('a', 4), ('b', 3), ('b', 4)]),   # 사로 범이(범가죽 · 창 · 우람한 뼈대) · 여덟째 묶음
+    'eomni': dict(hit=True, strip='gen-eomni', atk='thrust', src='thrust2', actw=264, refoot=True, atk8=True, act=True, legacy=(('a', 2), ('a', 3), ('b', 3), ('b', 4))),   # 저가 엄니(털 망토 · 창 · 가슴 M) · 여덟째 묶음
+    'gureum': dict(hit=True, strip='gen-gureum', atk='thrust', src='thrust2', actw=264, refoot=True, atk8=True, act=True, legacy=(('a', 2), ('a', 3), ('b', 3), ('b', 4))),   # 고룡 구름(창 · 가슴 M) · 여덟째 묶음
+    'haesol': dict(hit=True, strip='gen-haesol', atk='thrust', src='thrust2', actw=264, refoot=True, atk8=True, act=True, legacy=(('a', 2), ('a', 3), ('b', 3), ('b', 4))),   # 우시산 해솔(가는 창 · 가슴 M) · 여덟째 묶음
+    'soenun': dict(hit=True, strip='gen-soenun', atk='thrust', src='thrust2', actw=264, refoot=True, atk8=True, act=True, legacy=(('a', 2), ('a', 3), ('b', 3), ('b', 4))),   # 관나 쇠눈(비늘 갑옷 · 창) · 여덟째 묶음
     'haebi': dict(hit=True, strip='gen-haebi', atk='chop', atk8=True, act=True),   # act = 공격 여덟 칸이 넓은 동작 칸(240×224 · 뿌리 92 · 발 줄 216)
     'areum': dict(hit=True, strip='gen-areum', atk='slam', atk8=True, act=True, lock='none'),   # 받은 그림 그대로(얼굴을 떠다 붙이지 않는다 — 11-24: 뭉친 얼굴이 여덟 칸에 퍼졌다) · 옛 lock='face': 메가 머리 뒤로 지나간다 — 머리 상자는 메를 자르고(「포스터」), 윗몸을 통째로 묶으면 떠다닌다(11-24 형) → 얼굴 안쪽만 묶는다
 }
